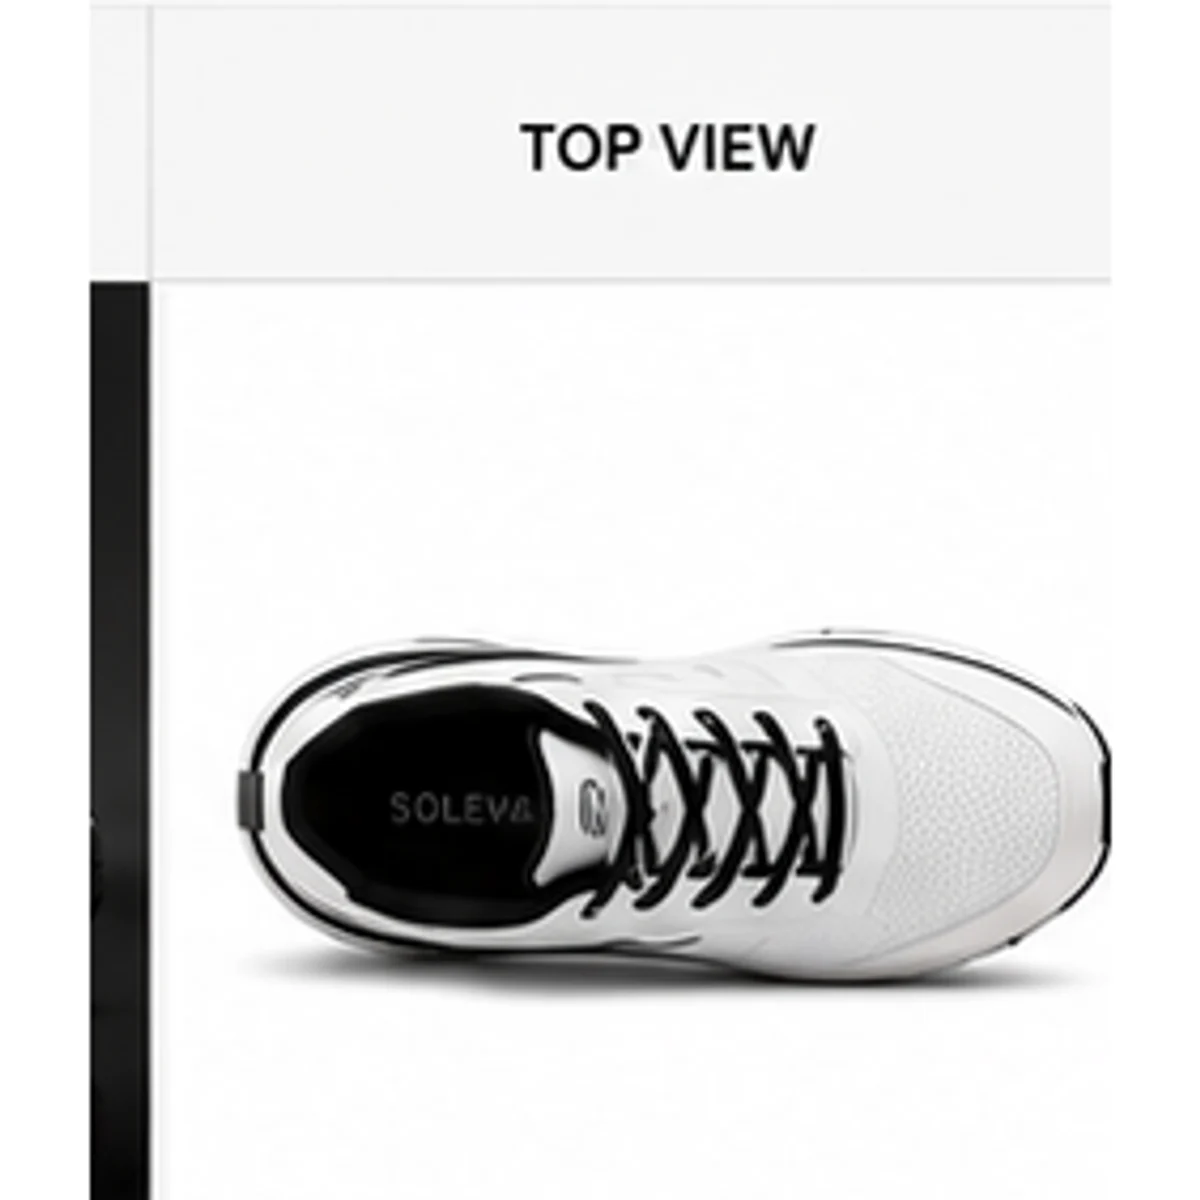
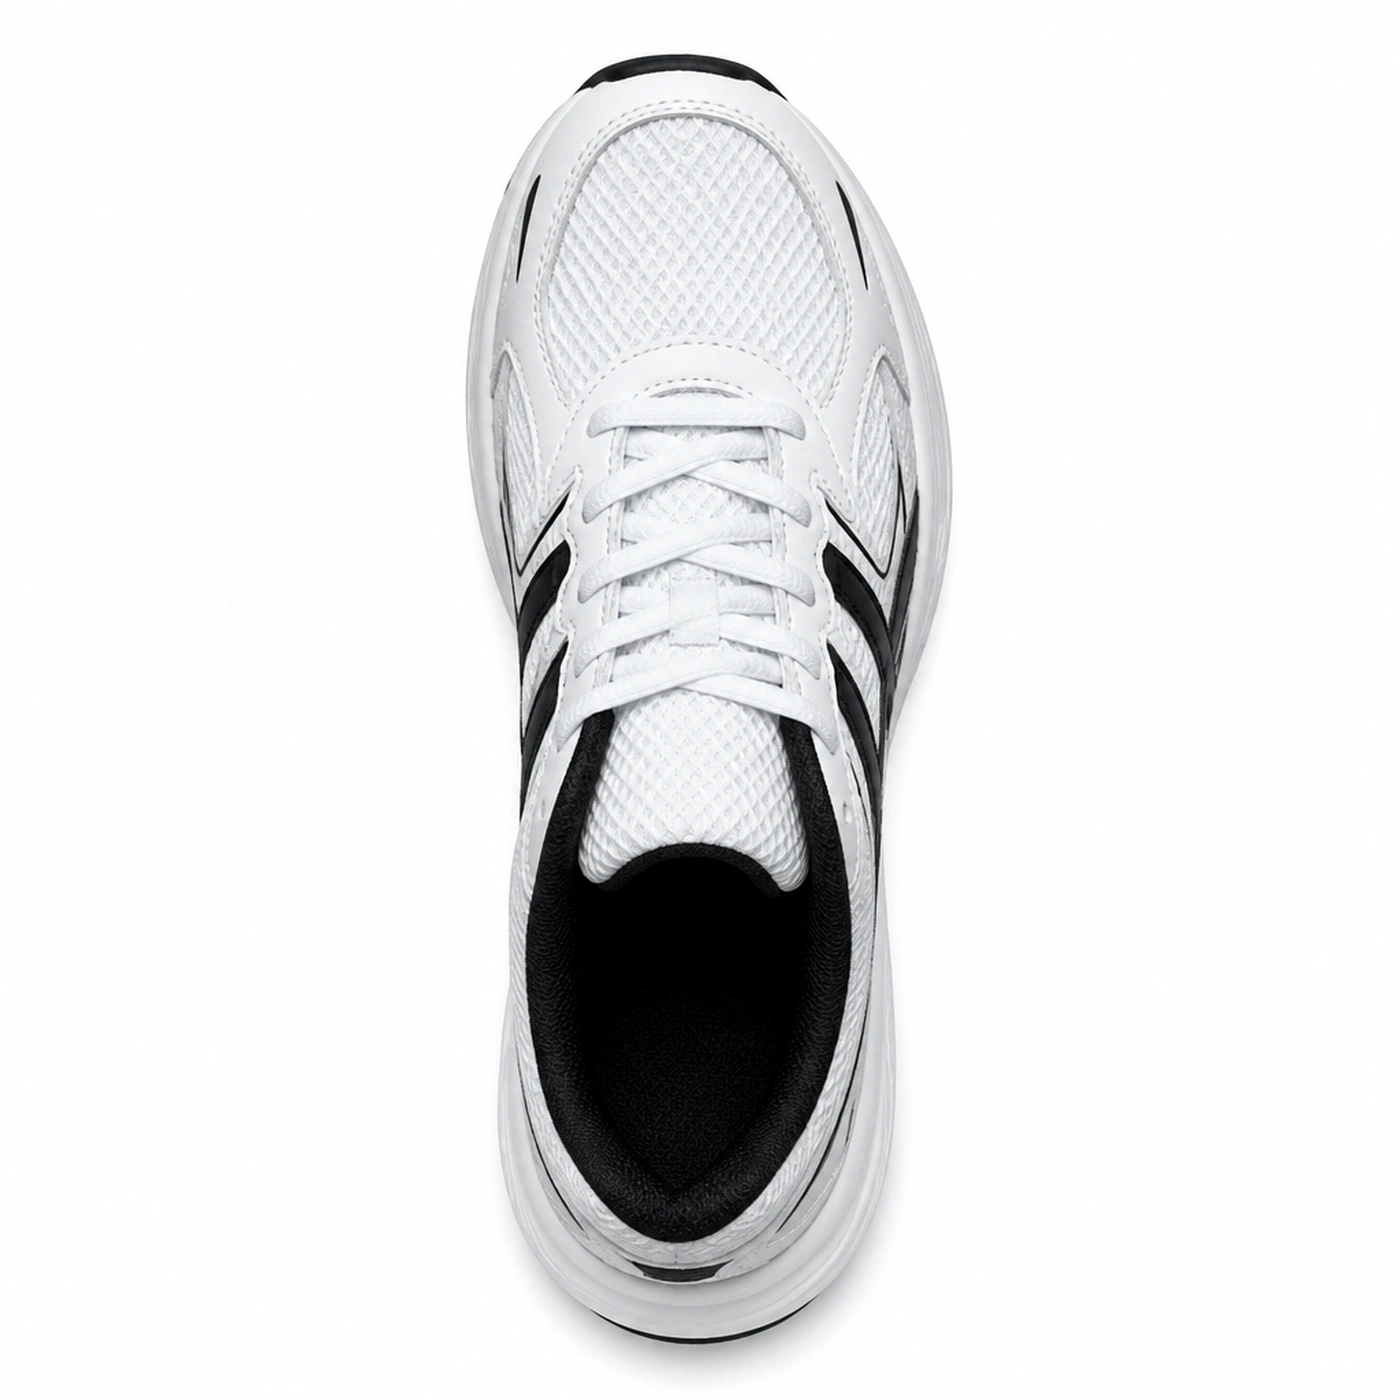
Upgrade product imagery to high-quality optimized WebPs
Replace low-res labeled mockup crops with 1400px WebP exports (q95),
allow Next.js Image quality 90 (Next 16 defaulted to 75 only), and
use contain framing so studio shots stay sharp on cards and PDP.

diff --git a/src/components/ProductImage.tsx b/src/components/ProductImage.tsx
@@ -12,6 +12,8 @@ type ProductImageProps = {
   className?: string;
   priority?: boolean;
   sizes?: string;
+  /** Must match an entry in next.config images.qualities */
+  quality?: 75 | 90;
   /** When true, broken/missing images show controlled placeholder */
   showUnavailable?: boolean;
 };
@@ -30,6 +32,7 @@ export function ProductImage({
   className = "",
   priority = false,
   sizes,
+  quality = 90,
   showUnavailable = true,
 }: ProductImageProps) {
   const [failed, setFailed] = useState(false);
@@ -60,6 +63,7 @@ export function ProductImage({
         alt={alt}
         fill
         priority={priority}
+        quality={quality}
         className={className}
         sizes={sizes}
         onError={() => setFailed(true)}
@@ -74,6 +78,7 @@ export function ProductImage({
       width={width ?? 800}
       height={height ?? 800}
       priority={priority}
+      quality={quality}
       className={className}
       sizes={sizes}
       onError={() => setFailed(true)}

diff --git a/src/components/SearchModal.tsx b/src/components/SearchModal.tsx
@@ -117,7 +117,8 @@ export function SearchModal({
                                 src={p.images.primary}
                                 alt=""
                                 fill
-                                className="object-cover"
+                                quality={90}
+                                className="object-contain p-0.5"
                                 sizes="48px"
                               />
                             ) : null}
@@ -151,7 +152,8 @@ export function SearchModal({
                             src={p.images.primary}
                             alt=""
                             fill
-                            className="object-cover"
+                            quality={90}
+                            className="object-contain p-0.5"
                             sizes="56px"
                           />
                         ) : null}

diff --git a/src/components/ProductCard.tsx b/src/components/ProductCard.tsx
@@ -44,7 +44,7 @@ export function ProductCard({
             alt={product.name}
             fill
             priority={priority}
-            className={`object-cover transition duration-500 ${
+            className={`object-contain p-3 transition duration-500 md:p-4 ${
               secondary ? "group-hover:opacity-0" : "group-hover:scale-105"
             }`}
             sizes="(max-width: 768px) 50vw, 25vw"
@@ -54,7 +54,7 @@ export function ProductCard({
               src={secondary}
               alt=""
               fill
-              className="object-cover opacity-0 transition duration-500 group-hover:scale-105 group-hover:opacity-100"
+              className="object-contain p-3 opacity-0 transition duration-500 group-hover:scale-105 group-hover:opacity-100 md:p-4"
               sizes="(max-width: 768px) 50vw, 25vw"
               showUnavailable={false}
             />

diff --git a/src/components/CartDrawer.tsx b/src/components/CartDrawer.tsx
@@ -95,7 +95,8 @@ export function CartDrawer() {
                         src={item.image}
                         alt={item.name}
                         fill
-                        className="object-cover"
+                        quality={90}
+                        className="object-contain p-1"
                         sizes="80px"
                       />
                     </Link>
@@ -186,7 +187,8 @@ export function CartDrawer() {
                               src={p.images.primary}
                               alt=""
                               fill
-                              className="object-cover"
+                              quality={90}
+                              className="object-contain p-0.5"
                               sizes="56px"
                             />
                           ) : null}

diff --git a/src/app/product/[slug]/page.tsx b/src/app/product/[slug]/page.tsx
@@ -102,7 +102,7 @@ export default async function ProductPage({
                   alt={`${owned.name} — ${slot}`}
                   fill
                   priority={slot === "primary"}
-                  className="object-cover transition duration-500 hover:scale-105"
+                  className="object-contain p-4 transition duration-500 hover:scale-[1.02] md:p-6"
                   sizes="(max-width: 768px) 100vw, 50vw"
                 />
               </div>

diff --git a/src/app/catalog-audit/page.tsx b/src/app/catalog-audit/page.tsx
@@ -156,7 +156,8 @@ export default function CatalogAuditPage() {
                             src={url}
                             alt={`${product.name} ${slot}`}
                             fill
-                            className="object-cover"
+                            quality={90}
+                            className="object-contain p-1.5"
                             sizes="140px"
                           />
                         ) : (

diff --git a/next.config.ts b/next.config.ts
@@ -2,6 +2,10 @@ import type { NextConfig } from "next";
 
 const nextConfig: NextConfig = {
   images: {
+    // Next 16 defaults to [75] only — allow sharper delivery for product shots
+    qualities: [75, 90],
+    formats: ["image/avif", "image/webp"],
+    deviceSizes: [640, 750, 828, 1080, 1200, 1400, 1920],
     remotePatterns: [
       {
         protocol: "https",

diff --git a/src/app/cart/page.tsx b/src/app/cart/page.tsx
@@ -47,7 +47,8 @@ export default function CartPage() {
                     src={item.image}
                     alt={item.name}
                     fill
-                    className="object-cover"
+                    quality={90}
+                    className="object-contain p-1.5"
                     sizes="112px"
                   />
                 </Link>
